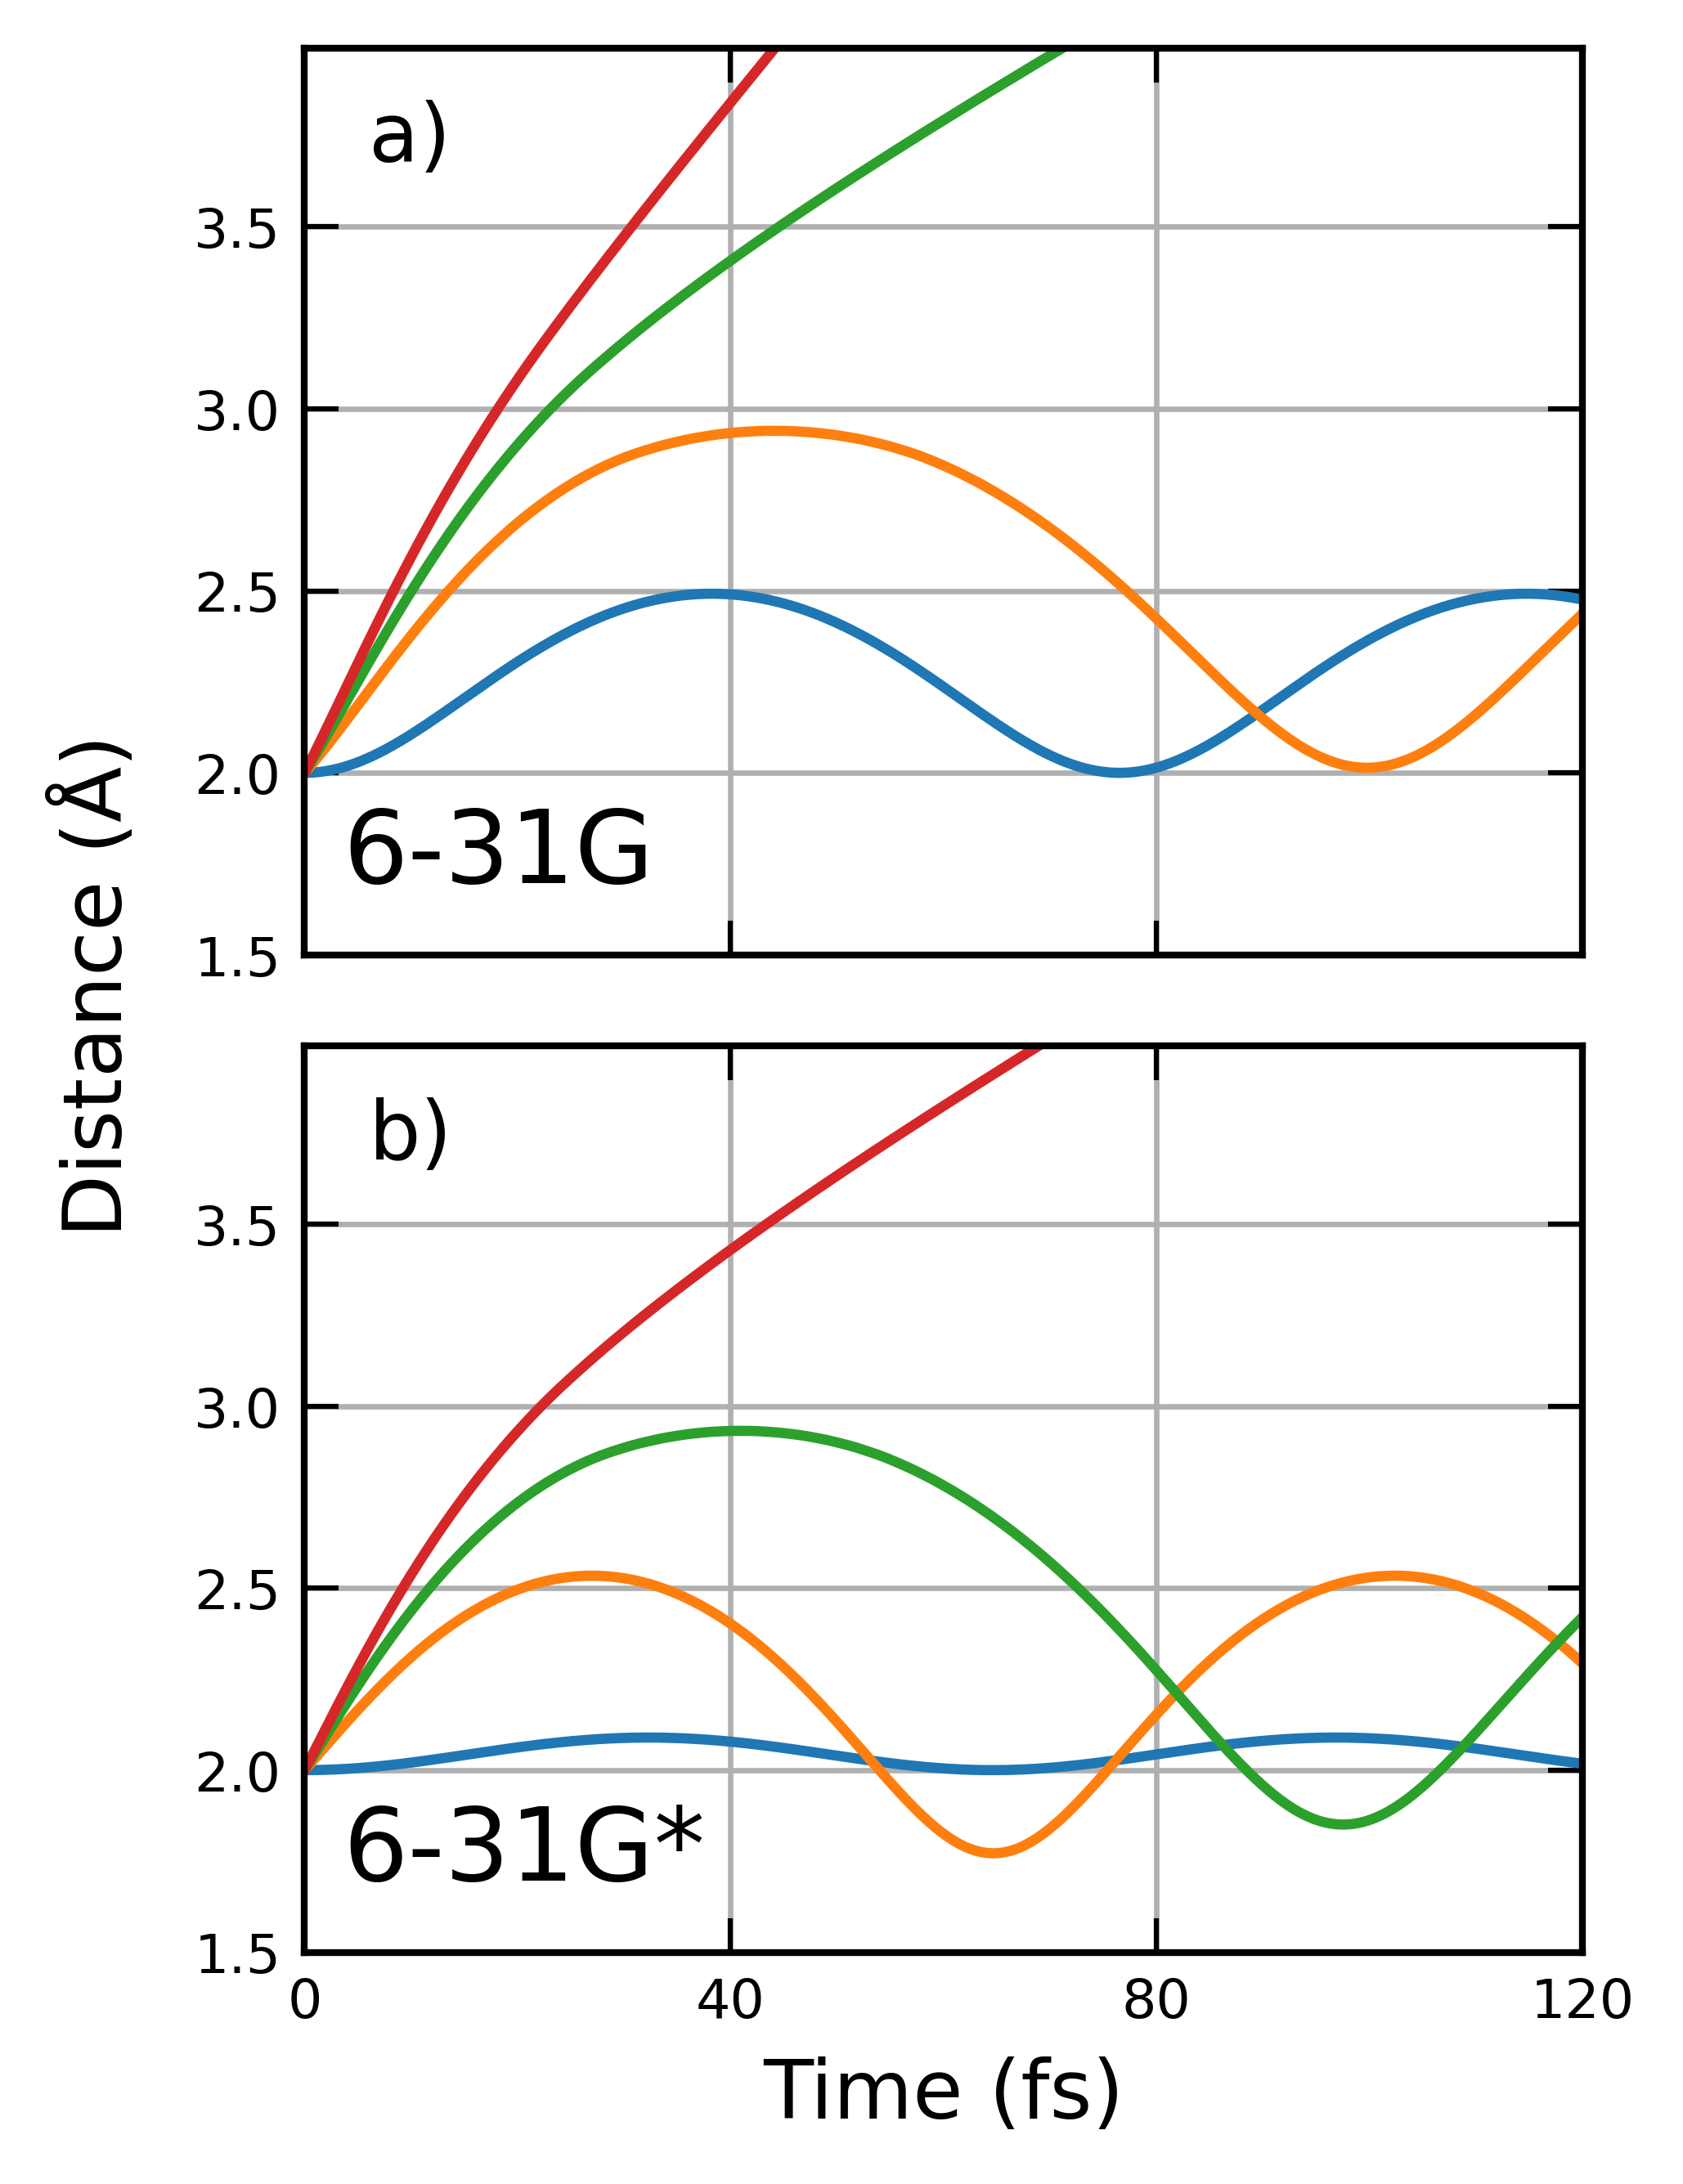
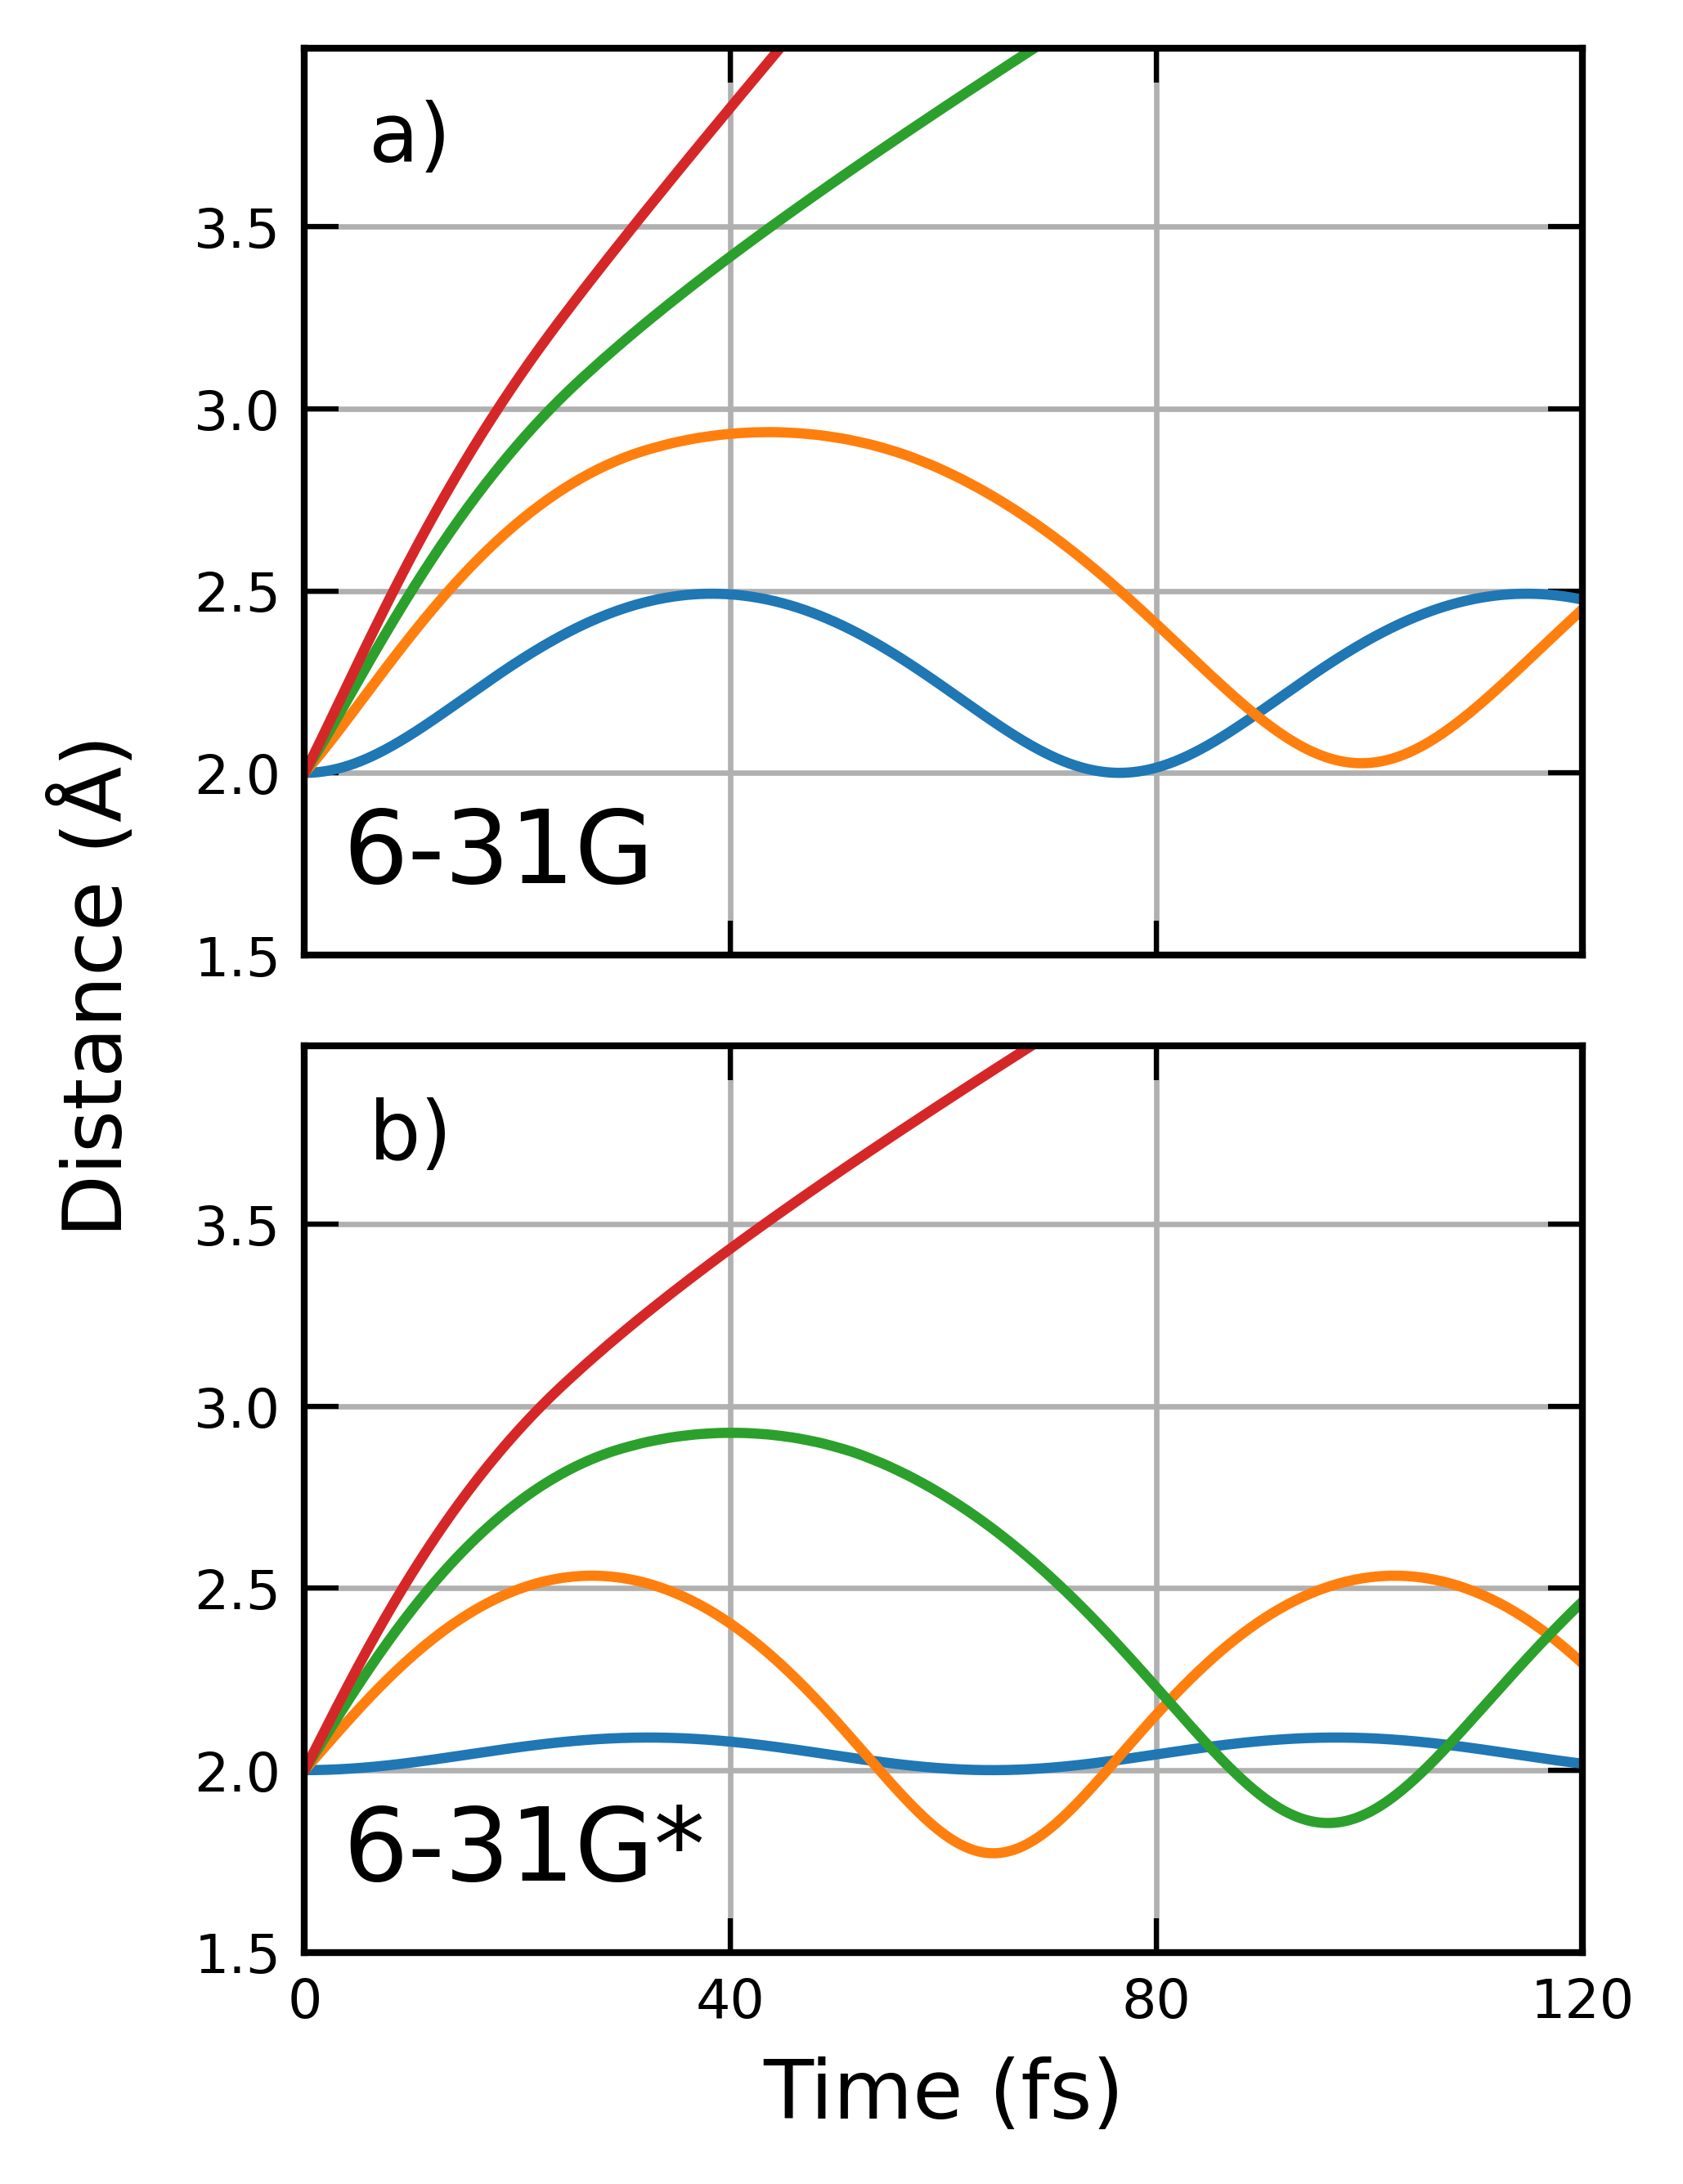
fixed final mixed timestep bug, restart chkfile now defaulted to tides.chk

diff --git a/examples/ExamplesFromOriginalTiDESPaper/Ehrenfest/Energy_Conservation/Small_dt/cl2.py b/examples/ExamplesFromOriginalTiDESPaper/Ehrenfest/Energy_Conservation/Small_dt/cl2.py
@@ -1,0 +1,42 @@
+import os
+
+n_threads = os.environ.get('SLURM_CPUS_PER_TASK', '12')
+os.environ['MKL_NUM_THREADS'] = n_threads
+os.environ['OPENBLAS_NUM_THREADS'] = n_threads
+os.environ['OMP_NUM_THREADS'] = '1'
+os.environ['MKL_DYNAMIC'] = 'FALSE'
+
+from pyscf import gto, dft, lib
+from tides import rt_ehrenfest, rt_utils
+import numpy as np
+
+lib.num_threads(int(n_threads))
+
+# Build Cl2 molecule
+mol = gto.M(
+    verbose = 0,
+    atom='''
+Cl           0.00000000 0.00000000 0.00000000
+Cl           0.00000000 0.00000000 2.00000000
+''',
+    basis='6-31G*', spin=0)
+
+# Build Unrestricted Kohn-Sham object
+cl2 = dft.UKS(mol)
+cl2.xc = 'B3LYP'
+cl2.kernel()
+
+# Create RT_Ehrenfest object
+rt_cl2 = rt_ehrenfest.RT_Ehrenfest(cl2, 0.1, 5000, 
+        frequency=20, Ne_step=1, N_step=1)
+
+# Set initial velocity
+init_eV = 2.0
+init_velo = np.sqrt((init_eV/(2*27.2114))*2/63744)
+rt_cl2.nuc.vel[0,2] = -1 * init_velo
+rt_cl2.nuc.vel[1,2] = init_velo
+
+# Declare which observables to be calculated/printed
+rt_cl2.observables.update(energy=True, nuclei=True)
+
+rt_cl2.kernel()

diff --git a/examples/ExamplesFromOriginalTiDESPaper/Ehrenfest/Workup_Ehrenfest.py b/examples/ExamplesFromOriginalTiDESPaper/Ehrenfest/Workup_Ehrenfest.py
@@ -119,3 +119,27 @@ def Cl2_Energy_Conservation():
 Cl2_Dissociation()
 
 Cl2_Energy_Conservation()
+
+def Cl2_small_dt():
+
+    result = parse_output('Energy_Conservation/Small_dt/cl2.out')
+
+    time, energy = result['time'], result['energy']
+
+    fig, axs = plt.subplots(1,1, figsize=(3.36, 2.52), dpi=600, sharex=True)
+    axs.grid(True)
+    axs.tick_params(labelsize=8, which='both',direction='in', top=True, right=True)
+    axs.plot(time / 41.34, (energy - energy[0]) * 627.51, linewidth=1.5, c='k', label=r'$N_n$ = 1; $N_f$ = 1')
+
+    axs.xaxis.set_major_locator(MultipleLocator(40))
+    axs.yaxis.set_major_locator(MultipleLocator(0.002))
+    axs.set_title('5 times smaller timestep dt=0.1 a.u.')
+    axs.set_xlabel('Time (fs)', fontsize=12)
+    axs.set_ylabel('Energy (kcal/mol)', fontsize=12)
+    axs.set_xlim([0,120])
+    axs.set_ylim([-0.0049,0.0099])
+    axs.legend(fontsize=8, frameon=False)
+
+    plt.savefig('Cl2_small_dt', bbox_inches='tight')
+
+Cl2_small_dt()

diff --git a/src/tides/rt_scf.py b/src/tides/rt_scf.py
@@ -50,13 +50,15 @@ class RT_SCF:
 
         # Restart from chkfile, or create a chkfile
         # If restarting from chkfile, self.den_ao will be rewritten
-        self.chkfile = chkfile
         if chkfile is not None:
-            if os.path.exists(self.chkfile):
-                restart_from_chkfile(self)
-                self.den_ao = self._scf.make_rdm1(mo_occ=self.occ)
-            else:
-                self.current_time = 0
+            self.chkfile = chkfile
+        else:
+            print('Warning: chkfile not set, defaulting to tides.chk')
+            #self._log.note('Warning: chkfile not set, defaulting to tides.chk')
+            self.chkfile = 'tides.chk'
+        if os.path.exists(self.chkfile):
+            restart_from_chkfile(self)
+            self.den_ao = self._scf.make_rdm1(mo_occ=self.occ)
         else:
             self.current_time = 0
         self._t0 = self.current_time

diff --git a/src/tides/rt_prop.py b/src/tides/rt_prop.py
@@ -29,7 +29,7 @@ def propagate(rt_scf, mo_coeff_print):
                 update_chkfile(rt_scf)
 
         rt_scf._integrate_function(rt_scf)
-        if rt_scf.istype('RT_Ehrenfest') and np.mod(int(rt_scf.current_time / rt_scf.timestep - 1), rt_scf.N_step * rt_scf.Ne_step) == rt_scf.N_step * rt_scf.Ne_step -1:
+        if rt_scf.istype('RT_Ehrenfest') and np.mod(round(rt_scf.current_time / rt_scf.timestep - 1), rt_scf.N_step * rt_scf.Ne_step) == rt_scf.N_step * rt_scf.Ne_step -1:
             rt_scf.update_force()
 
     rt_observables.get_observables(rt_scf)  # Collect observables at final time